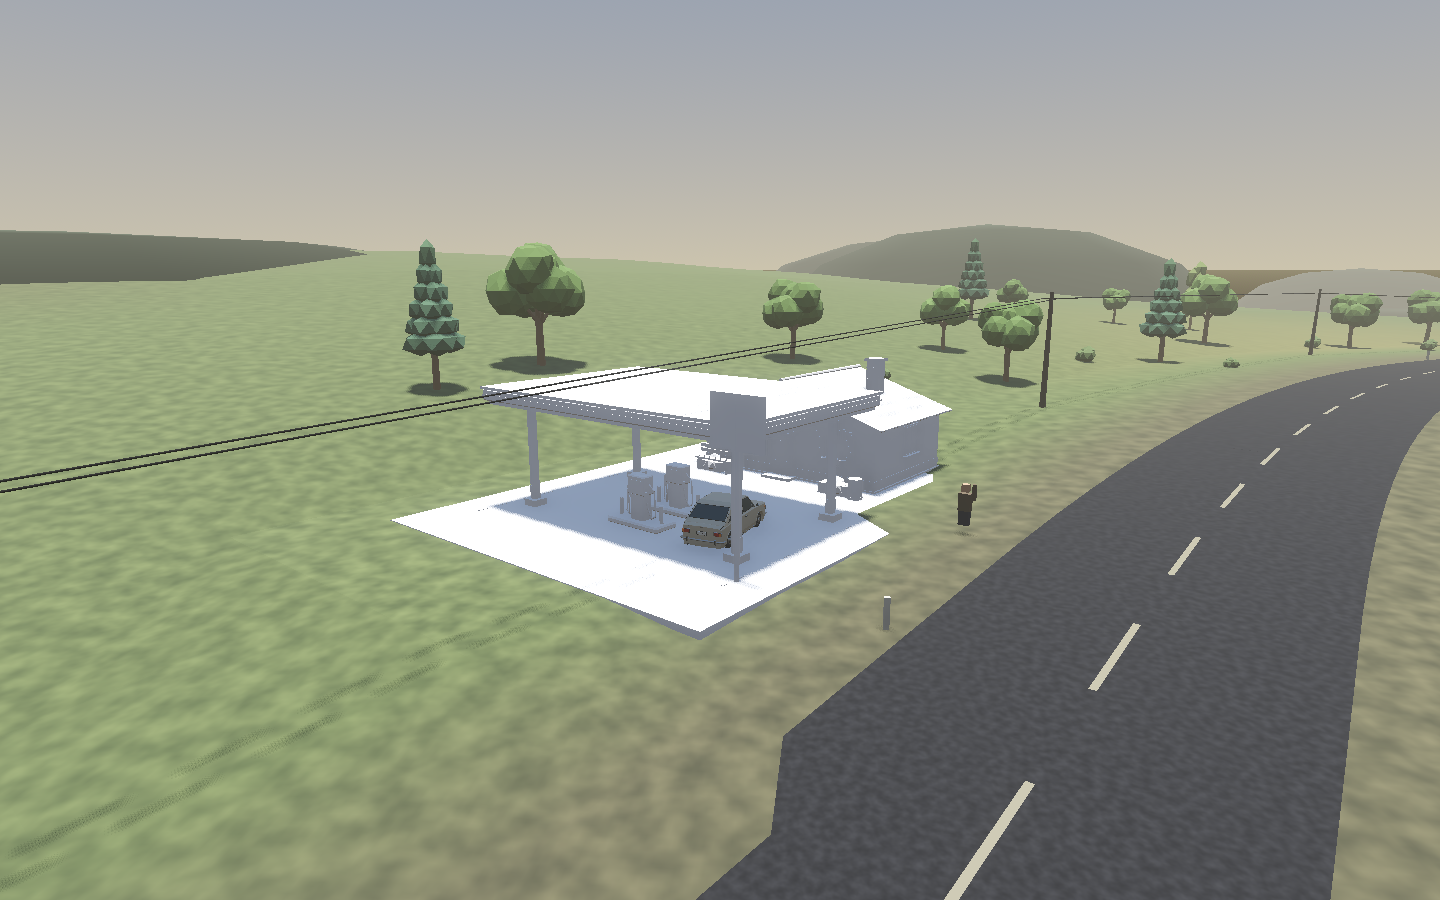
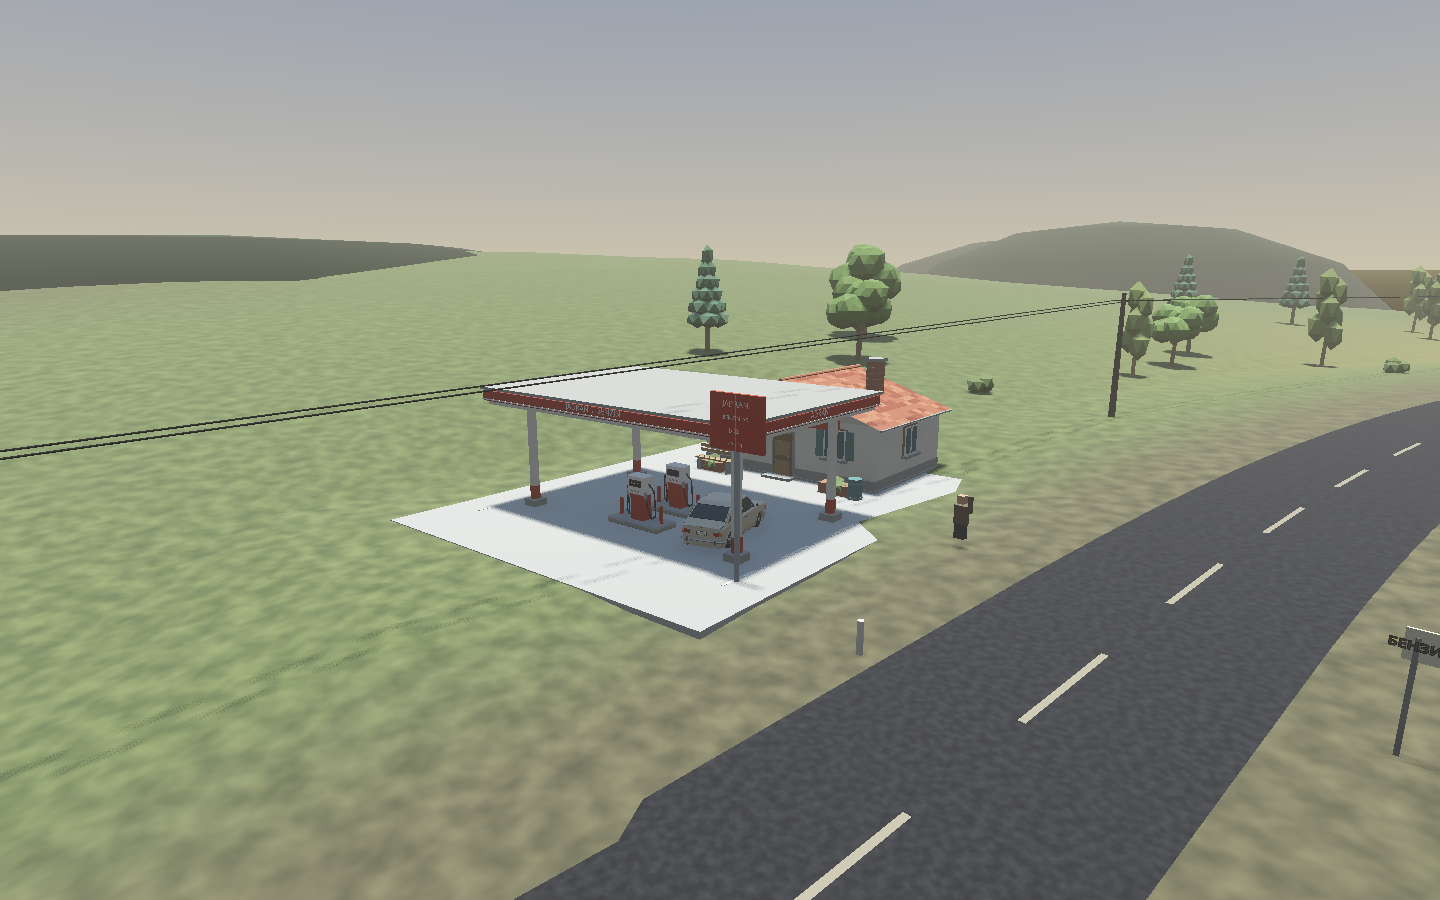
Document world art validation and capture integrated game views

diff --git a/game/scripts/Main.cs b/game/scripts/Main.cs
@@ -1511,7 +1511,7 @@ public partial class Main : Node3D
         string featureId = feature.ToString().ToLowerInvariant();
         string? variant = PropFactory.PickVariant(PropVariants(featureId), poiIndex);
 
-        // Небольшой разворот и сдвиг: одинаковые пропы не должны стоять строем.
+        // Небольшой разворот; высота площадки фиксирована, чтобы не затопить настил землёй.
         var rng = new Pcg32((ulong)(20261024 + poiIndex), sequence: 5);
         float yawJitter = (float)rng.Range(-0.18, 0.18);
 

diff --git a/docs/WORLD_ART.md b/docs/WORLD_ART.md
@@ -69,3 +69,13 @@ godot --path game --script ../tools/world_art_review.gd -- --shot-day --art-view
 Игровая проверка загружает настоящий Main, проверяет проезд к колонкам,
 доступ к магазину и мотелю и наличие коллизий у твёрдых объектов.
 Для проверок используйте отдельный APPDATA, чтобы не менять сохранения игрока.
+
+Проверено 24.10.2026: сборка без ошибок и предупреждений; импорт всех девяти
+ассетов, проверка доступности площадок и smoke на 600 кадров проходят.
+На игровых снимках: заправка — 76 draw calls / 84 168 primitives,
+деревня — 63 / 71 840 (Godot Compatibility, 1440×900).
+
+Известная отдельная проблема: `--check-house` сообщает о неполном проходе
+через заднюю дверь и подъёме на чердак. Сбой воспроизведён с теми же
+значениями (0,83 м и 1,63 м) на чистом `master` 22733e7 без этого набора
+графики. Изменения дома и движения игрока в данную задачу не входят.
